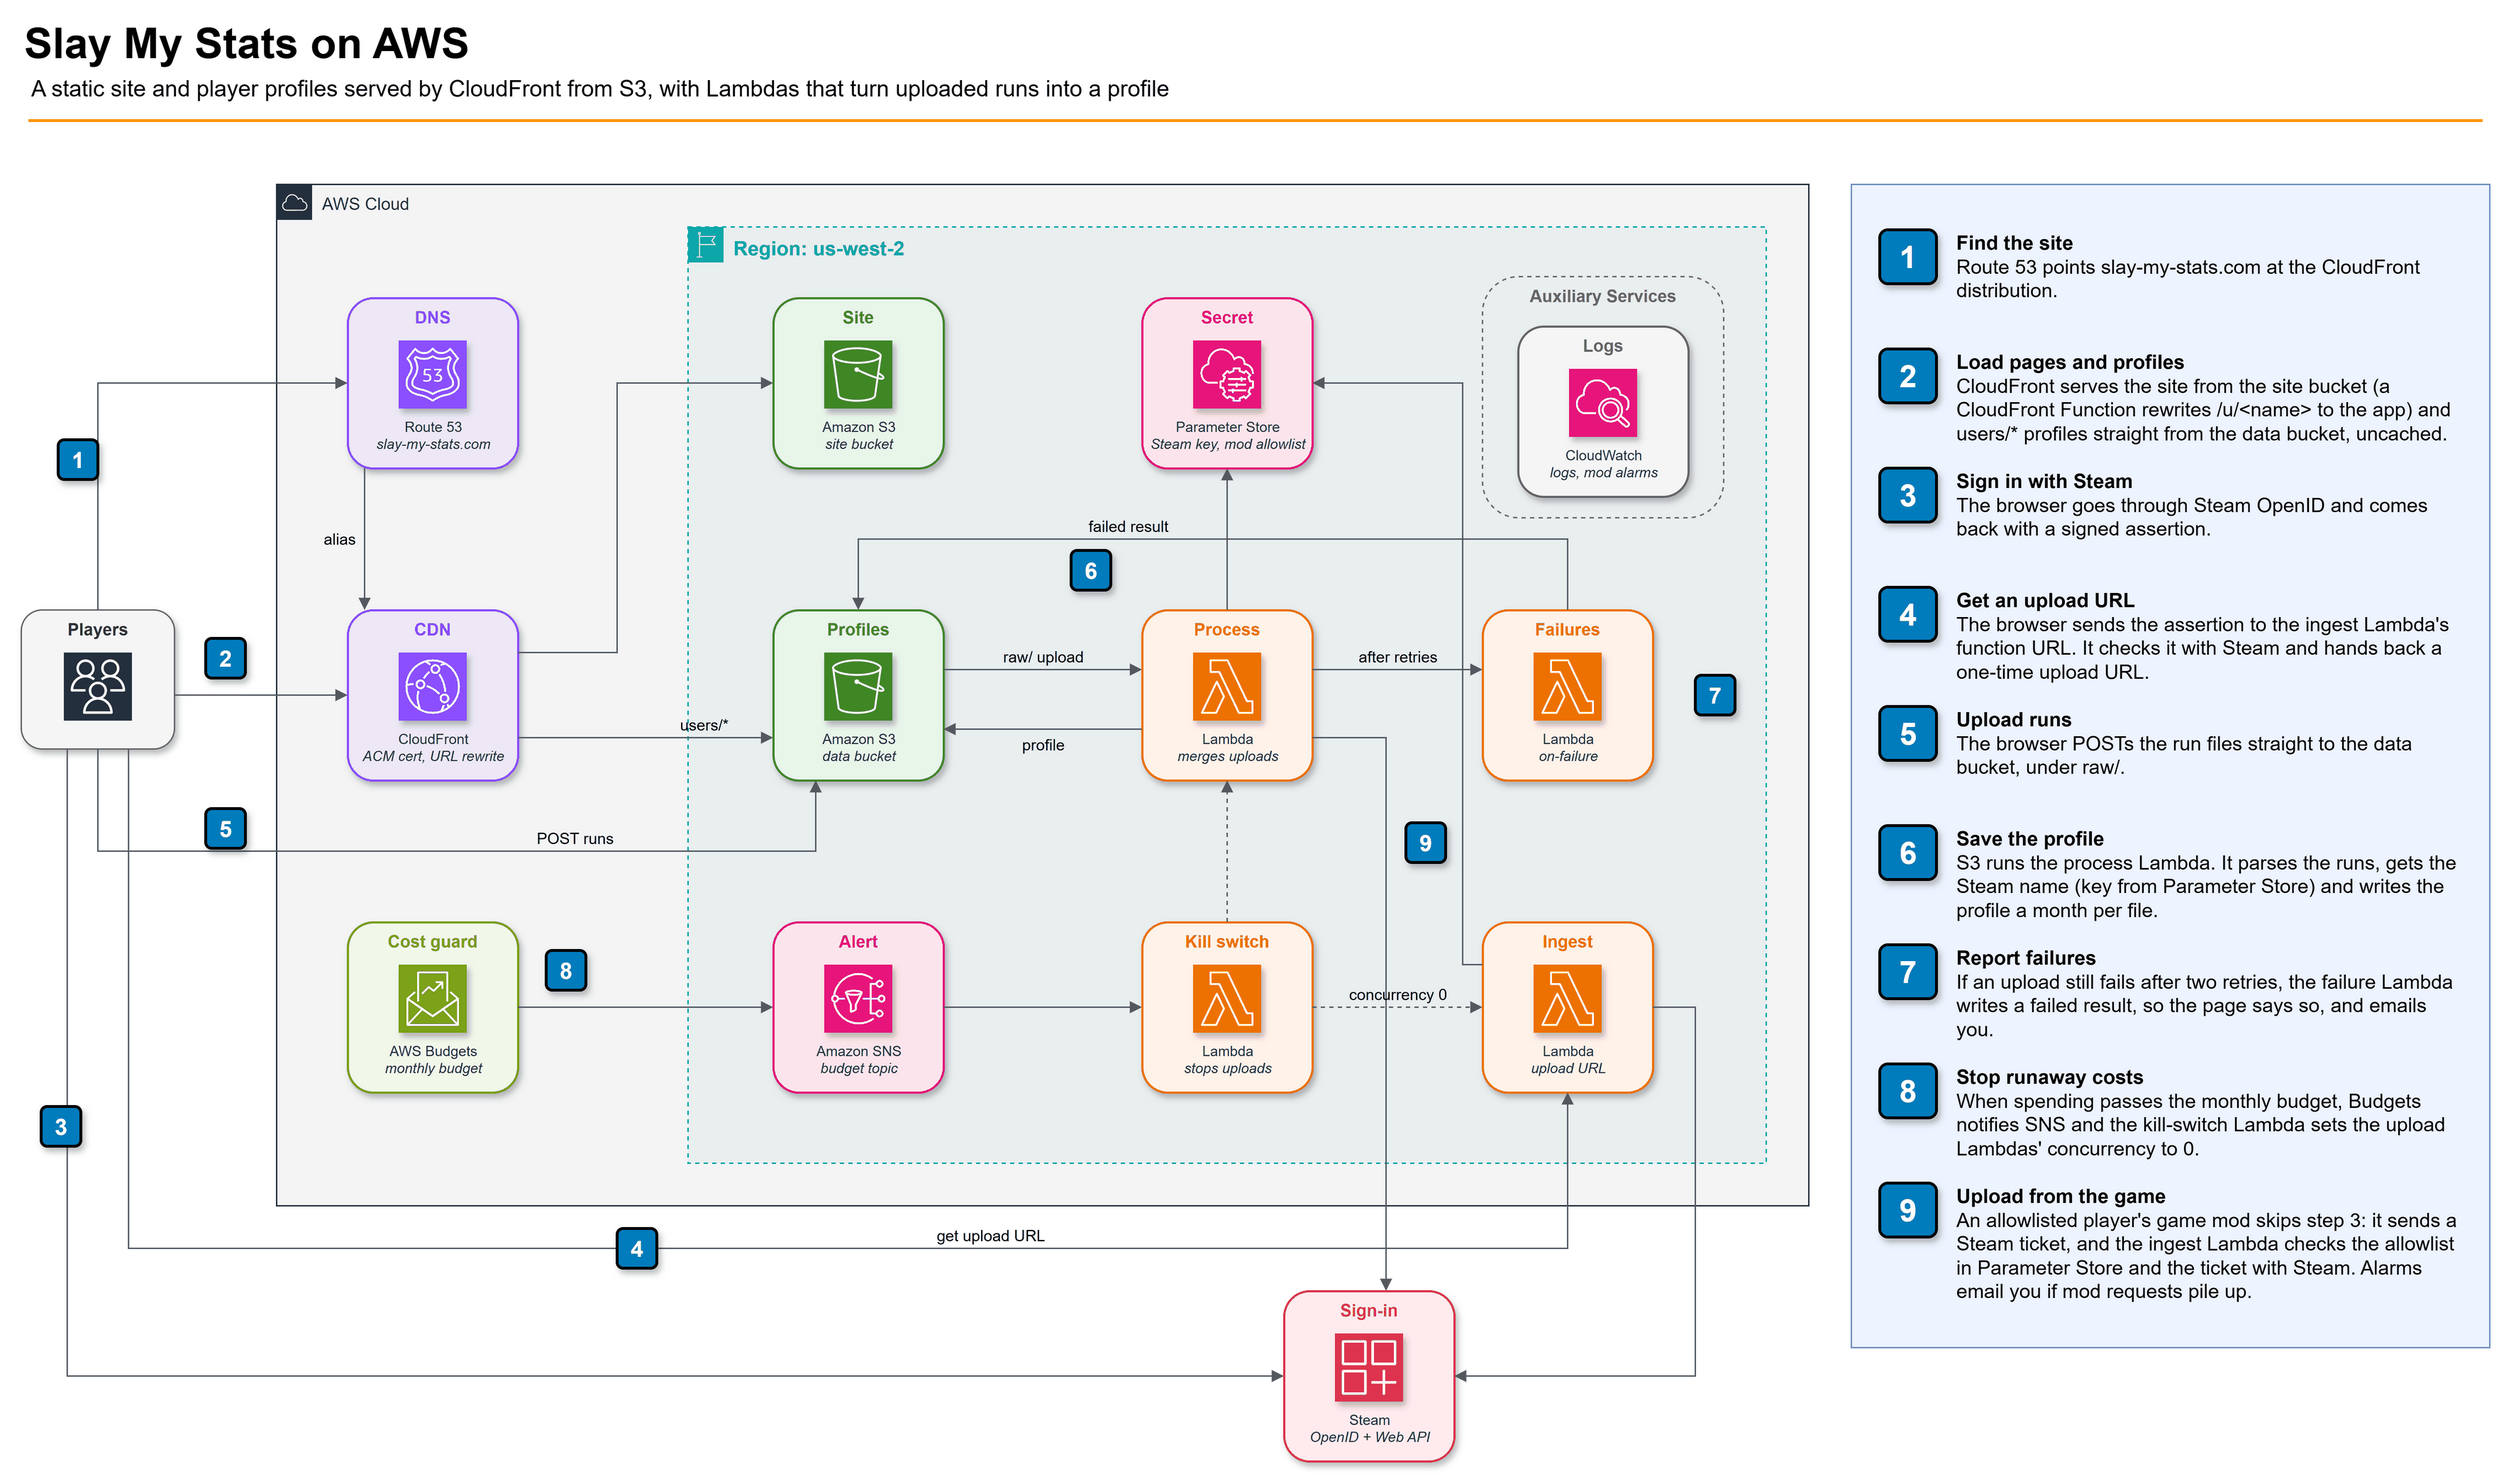
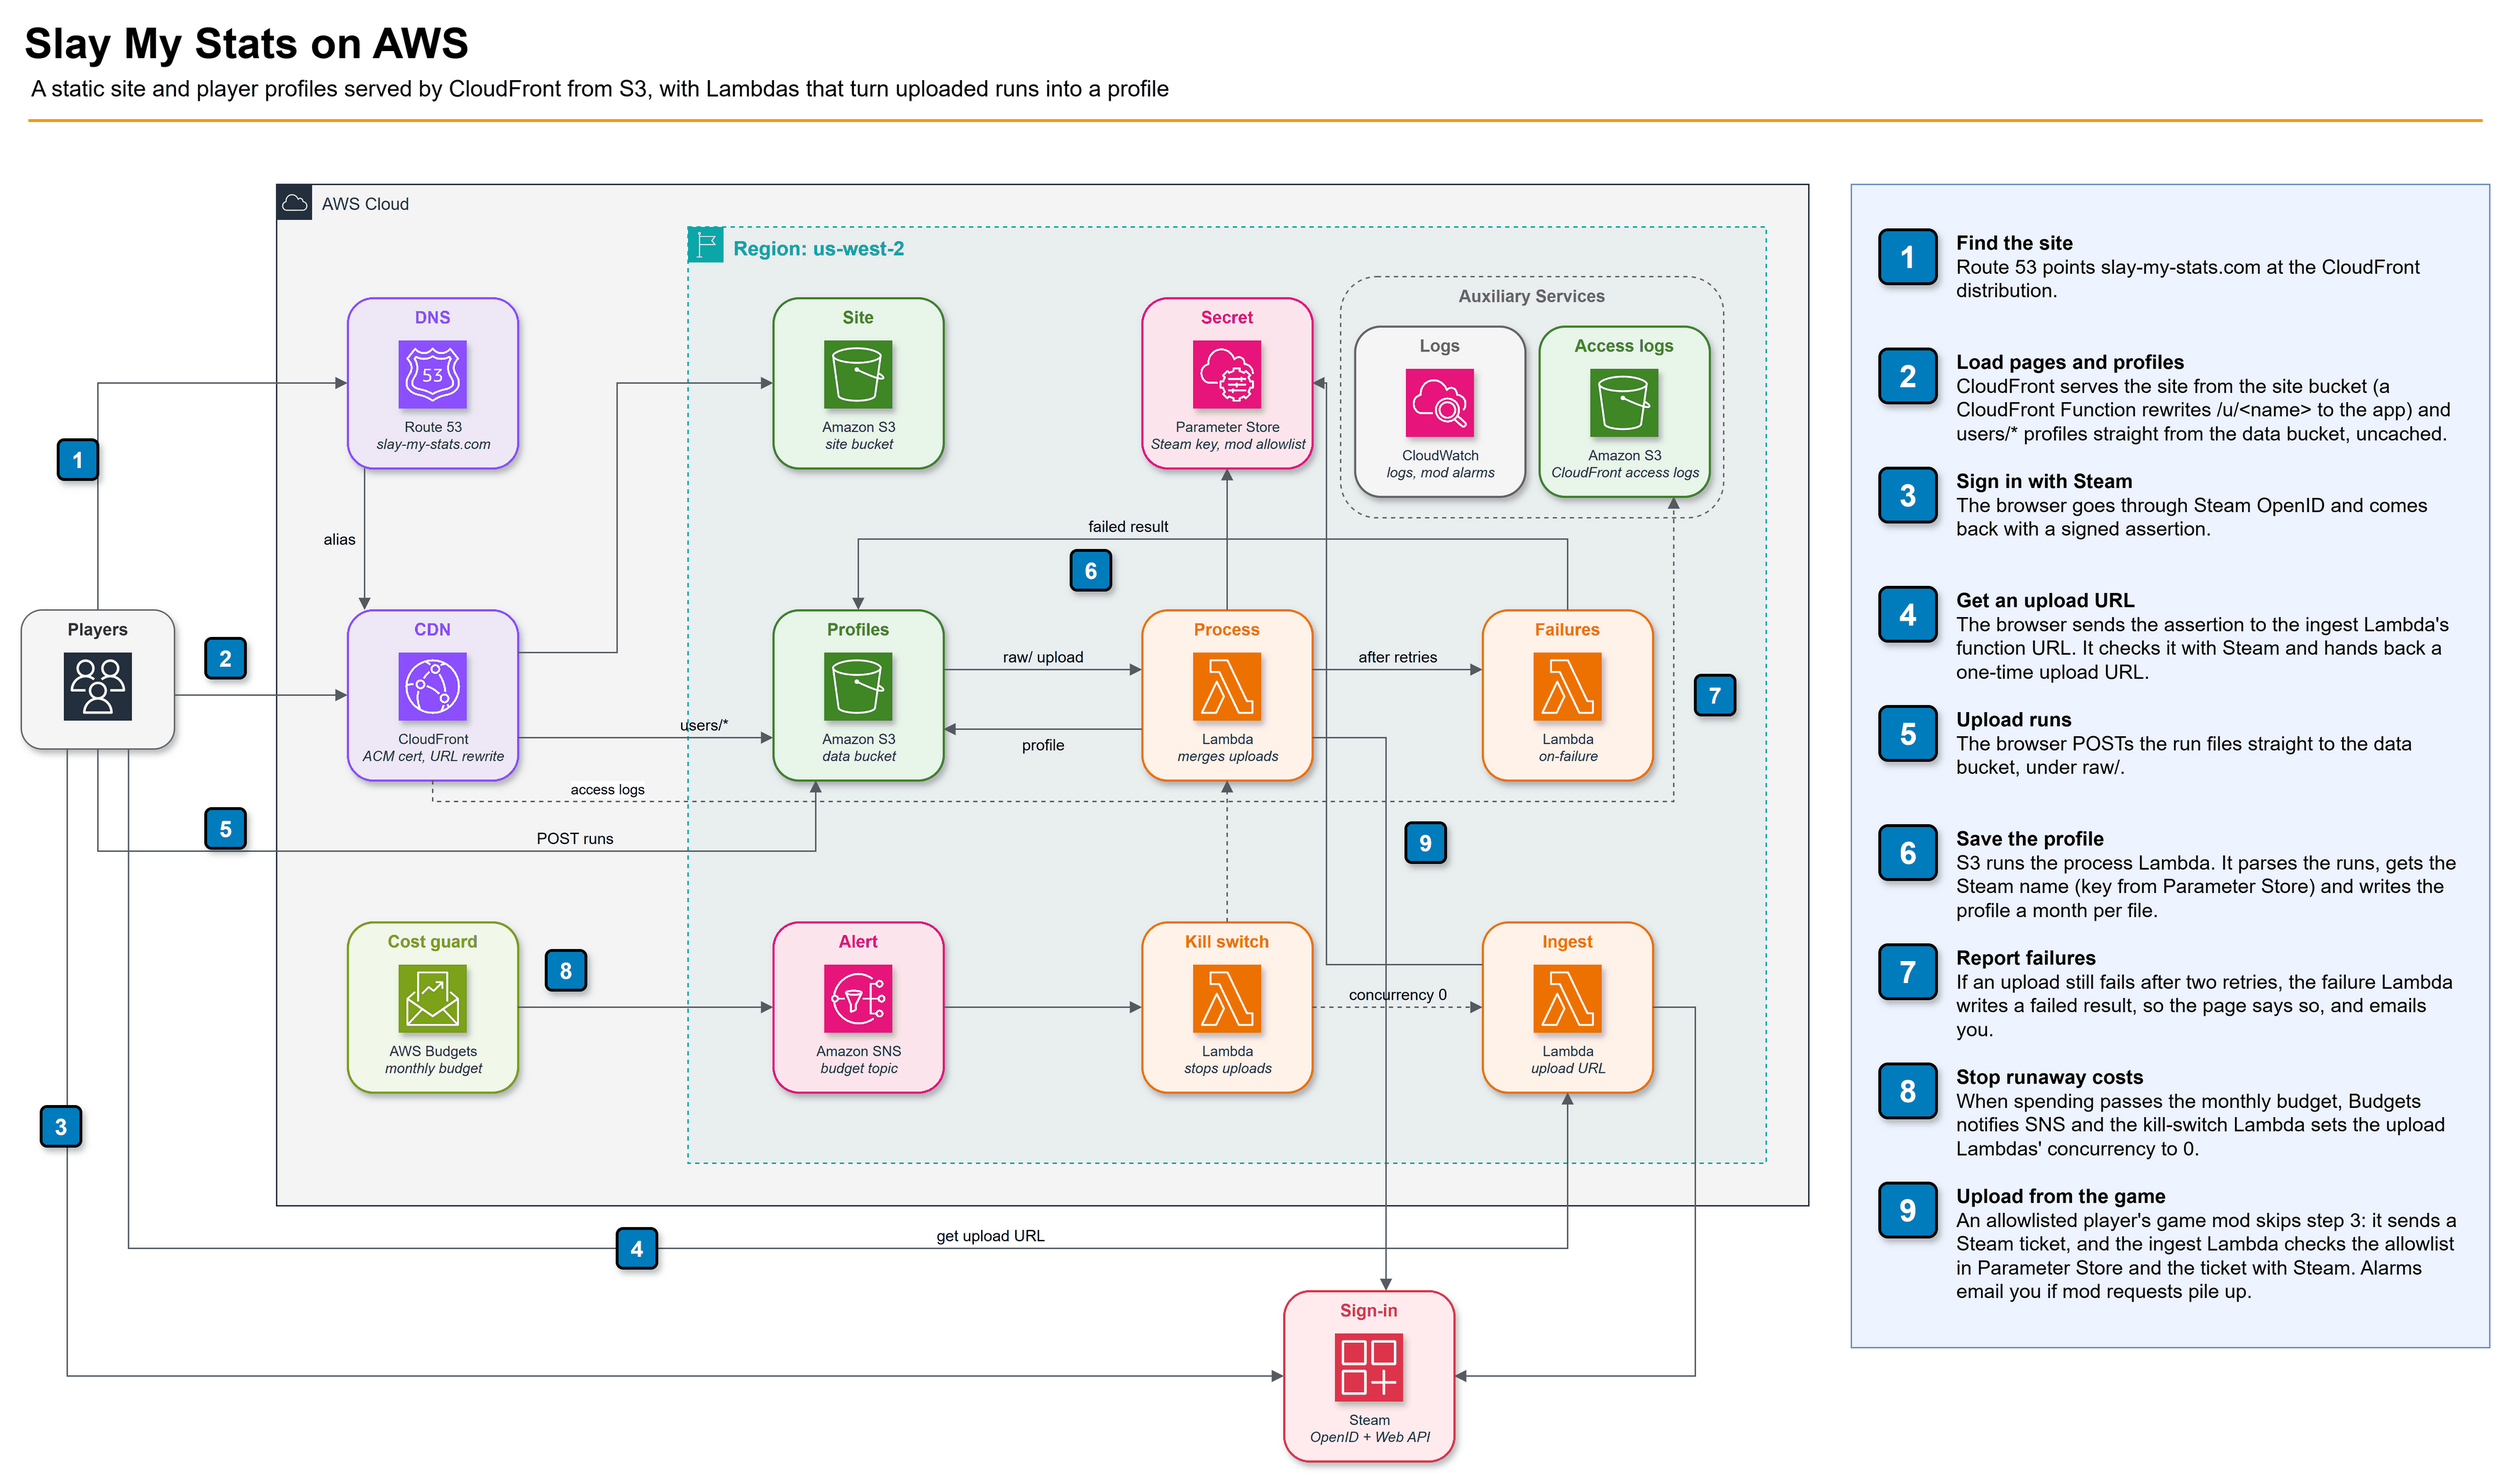
Architecture diagram: draw the CloudFront access-log bucket; check_docs knows it

Changed region(s): [[0.5308, 0.1868, 0.6869, 0.3424]]

diff --git a/tools/check_docs.py b/tools/check_docs.py
@@ -36,6 +36,7 @@ DRAWN = {
     "ProcessLogGroup": "CloudWatch",
     "ProcessFailureLogGroup": "CloudWatch",
     "KillSwitchLogGroup": "CloudWatch",
+    "AccessLogBucket": "access logs",
 }
 NOT_DRAWN = {  # plumbing inside a drawn box, or an output
     "SiteCertificate": "the ACM cert is noted inside the CloudFront box",
